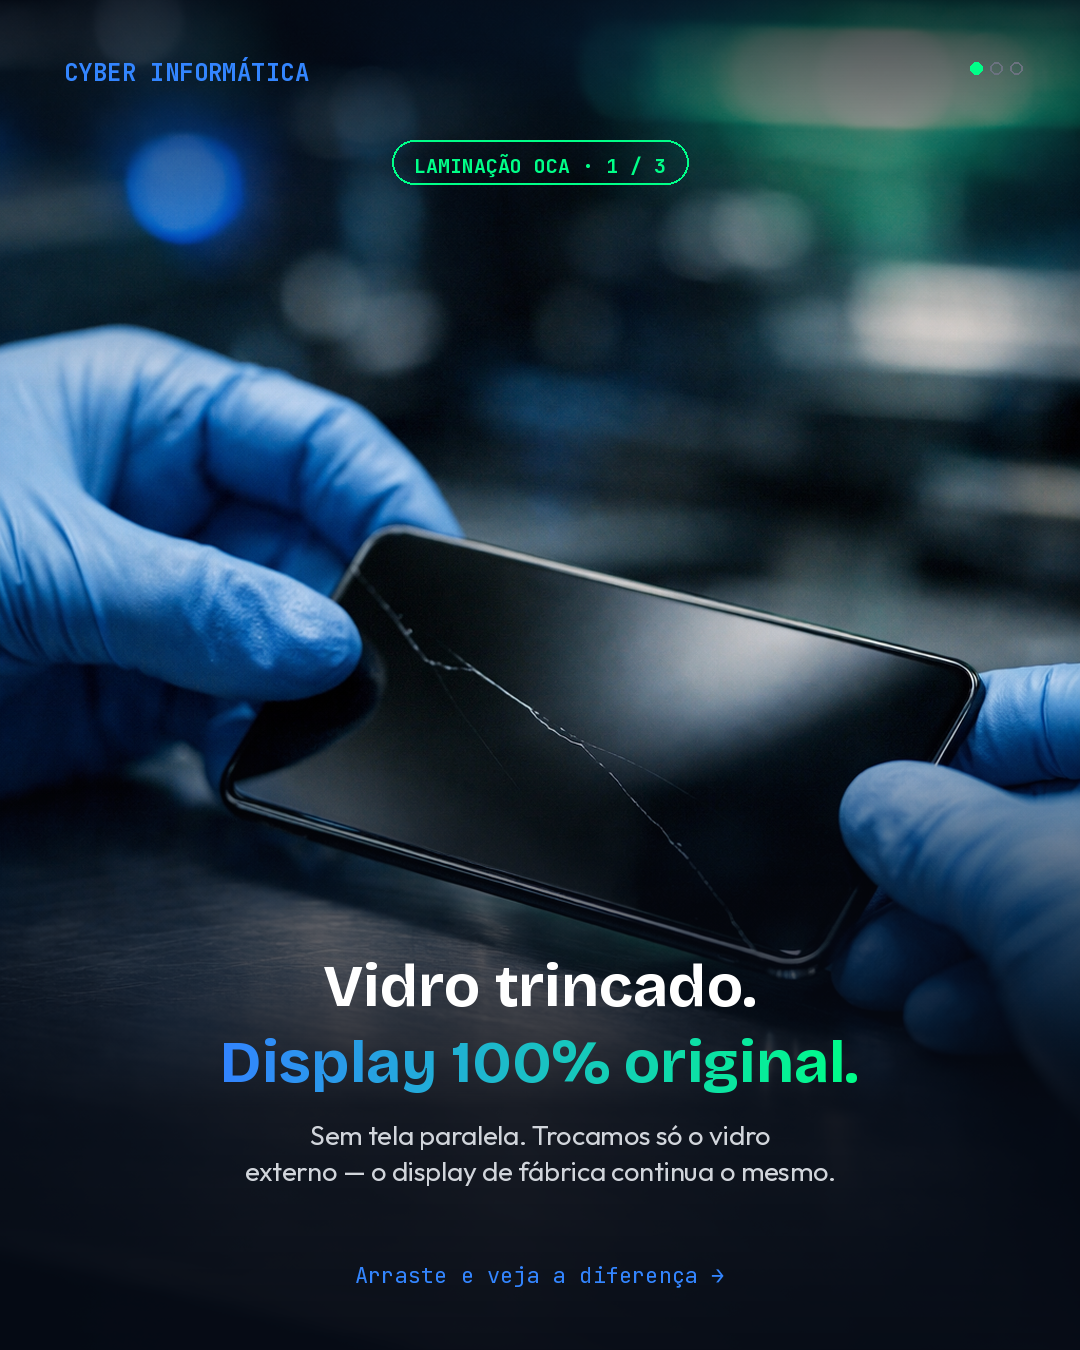
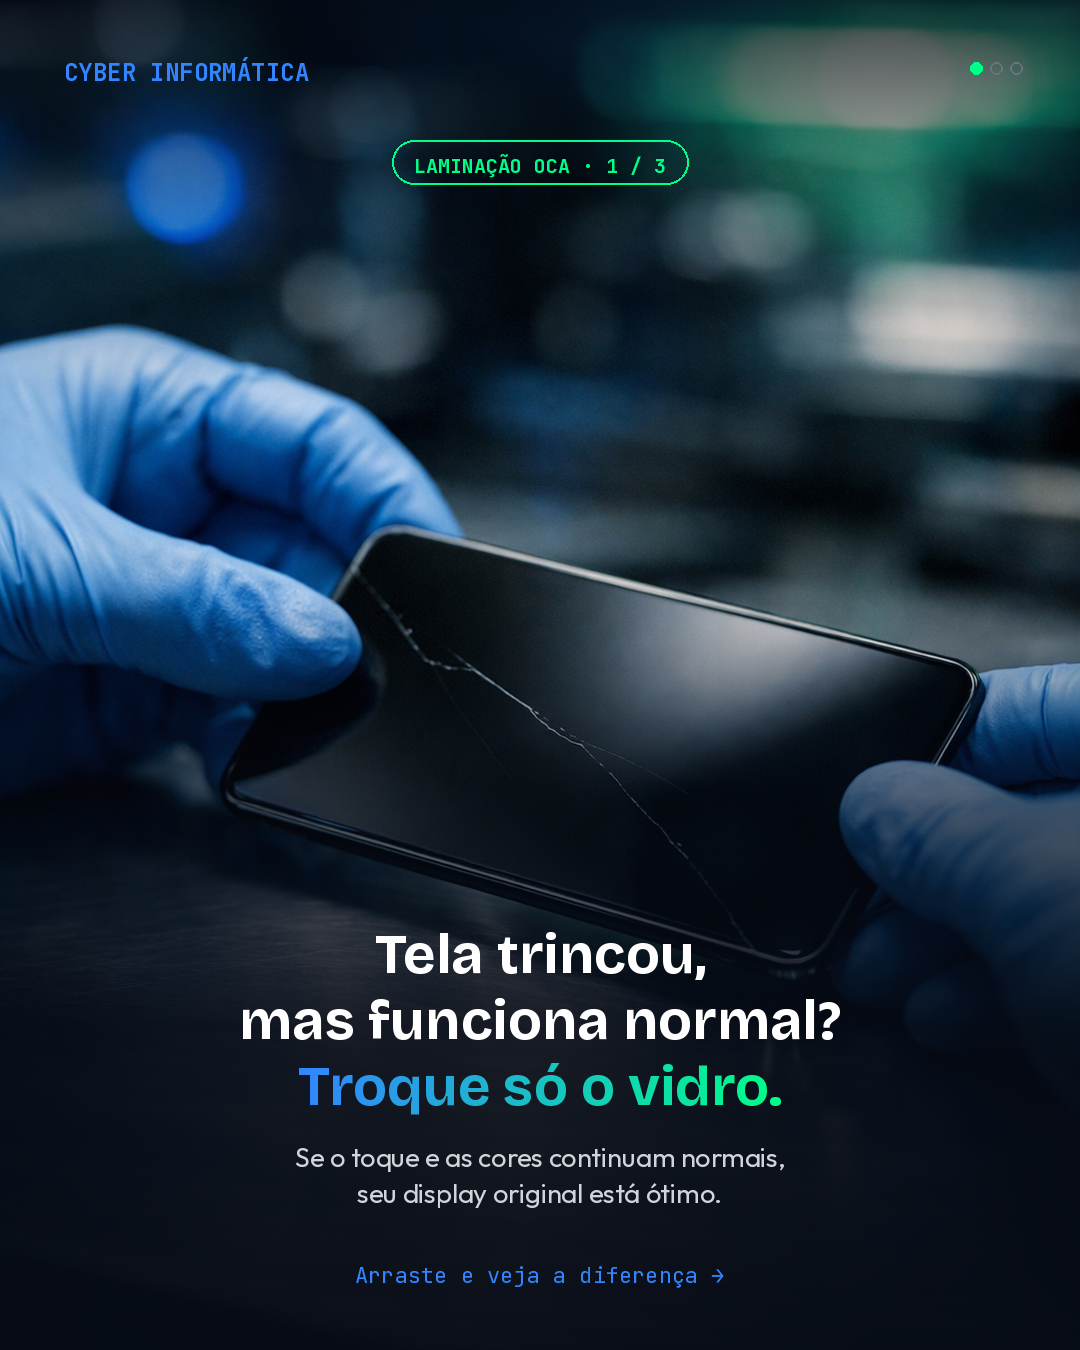
fix(campanha): copy do slide 1 espelha o H1 do site para reconhecimento imediato
"Tela trincou, mas funciona normal? Troque só o vidro." reaproveita a
mesma pergunta-gancho do Hero (apps/telas/app/page.tsx), deixando claro
de imediato do que se trata o anúncio.

diff --git a/assets/campanha-consumidor/gerar_slide1.py b/assets/campanha-consumidor/gerar_slide1.py
@@ -71,7 +71,7 @@ def make_slide_1():
 
     # Scrim inferior — legibilidade do headline/subtexto
     bottom_scrim = Image.new("RGB", (W, H), NAVY_950)
-    bottom_alpha = vertical_gradient_alpha((W, H), [(0.0, 0), (0.52, 0), (0.68, 150), (0.82, 235), (1.0, 250)])
+    bottom_alpha = vertical_gradient_alpha((W, H), [(0.0, 0), (0.44, 0), (0.60, 150), (0.76, 235), (1.0, 250)])
     img.paste(bottom_scrim, (0, 0), bottom_alpha)
 
     draw = ImageDraw.Draw(img)
@@ -80,18 +80,23 @@ def make_slide_1():
     draw = ImageDraw.Draw(img)
     eyebrow_badge(draw, W / 2, 140, "LAMINAÇÃO OCA · 1 / 3")
 
-    f_h1 = font(F_DISPLAY_BOLD, 60)
-    y = H - 400
-    draw_centered(draw, W / 2, y, "Vidro trincado.", f_h1, WHITE)
-    y += 76
-    gradient_text(img, (W / 2, y), "Display 100% original.", f_h1, CYBER_BLUE_LIGHT, CIRCUIT_GREEN, anchor="ma")
+    # Copy espelha o H1 do site (Hero, apps/telas/app/page.tsx): "Seu celular
+    # trincou a tela mas funciona normalmente? Então você só precisa trocar
+    # o vidro." — para reconhecimento imediato de quem já viu o site/anúncio.
+    f_h1 = font(F_DISPLAY_BOLD, 56)
+    y = H - 430
+    draw_centered(draw, W / 2, y, "Tela trincou,", f_h1, WHITE)
+    y += 66
+    draw_centered(draw, W / 2, y, "mas funciona normal?", f_h1, WHITE)
+    y += 66
+    gradient_text(img, (W / 2, y), "Troque só o vidro.", f_h1, CYBER_BLUE_LIGHT, CIRCUIT_GREEN, anchor="ma")
     draw = ImageDraw.Draw(img)
-    y += 92
+    y += 88
 
     f_sub = font(F_BODY_REG, 27)
-    draw_centered(draw, W / 2, y, "Sem tela paralela. Trocamos só o vidro", f_sub, GRAY_300)
+    draw_centered(draw, W / 2, y, "Se o toque e as cores continuam normais,", f_sub, GRAY_300)
     y += 36
-    draw_centered(draw, W / 2, y, "externo — o display de fábrica continua o mesmo.", f_sub, GRAY_300)
+    draw_centered(draw, W / 2, y, "seu display original está ótimo.", f_sub, GRAY_300)
 
     f_hint = font(F_MONO_REG, 22)
     draw_centered(draw, W / 2, H - 90, "Arraste e veja a diferença →", f_hint, CYBER_BLUE_LIGHT)
